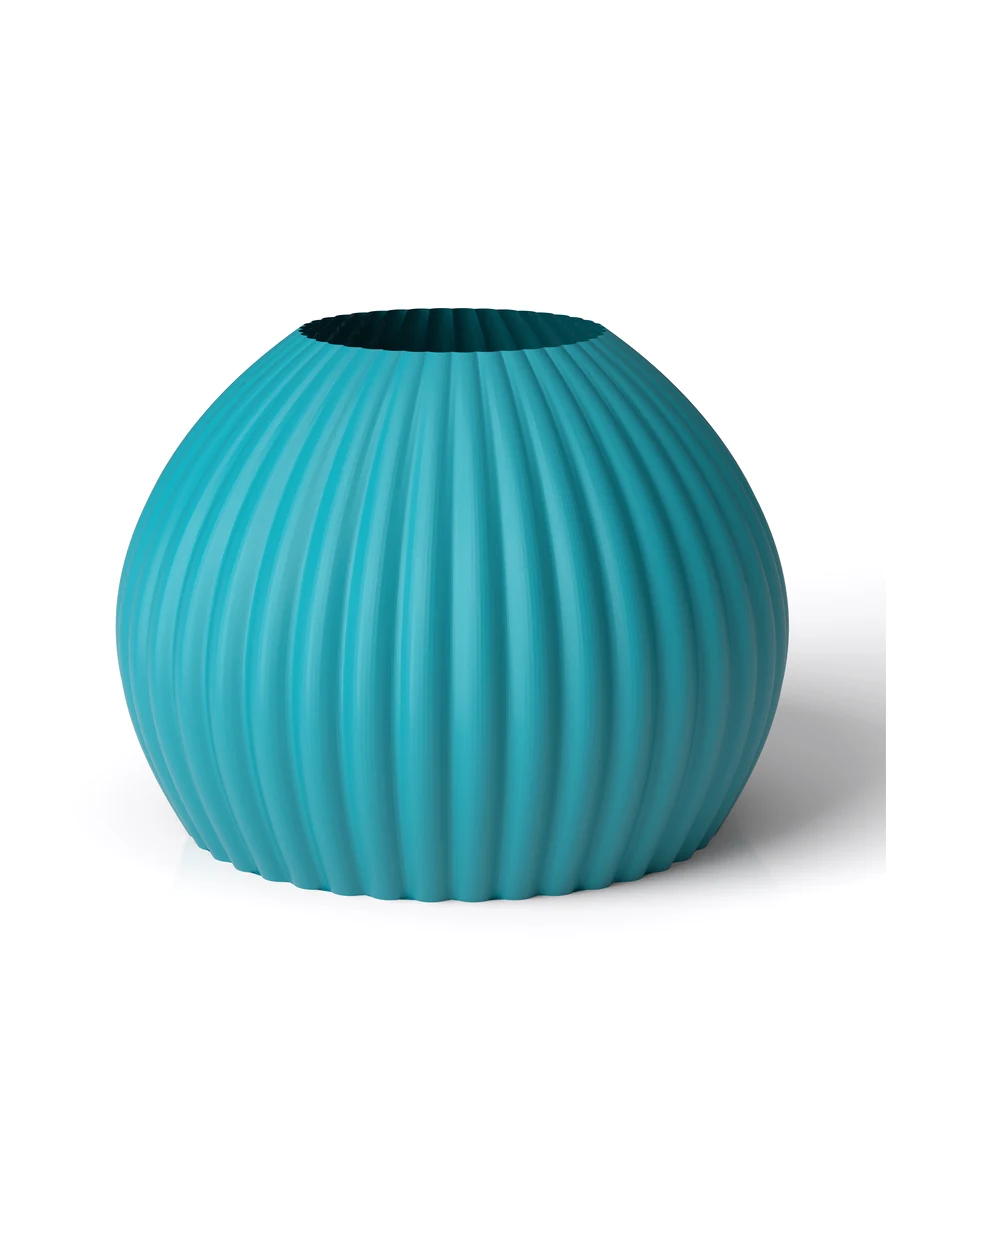
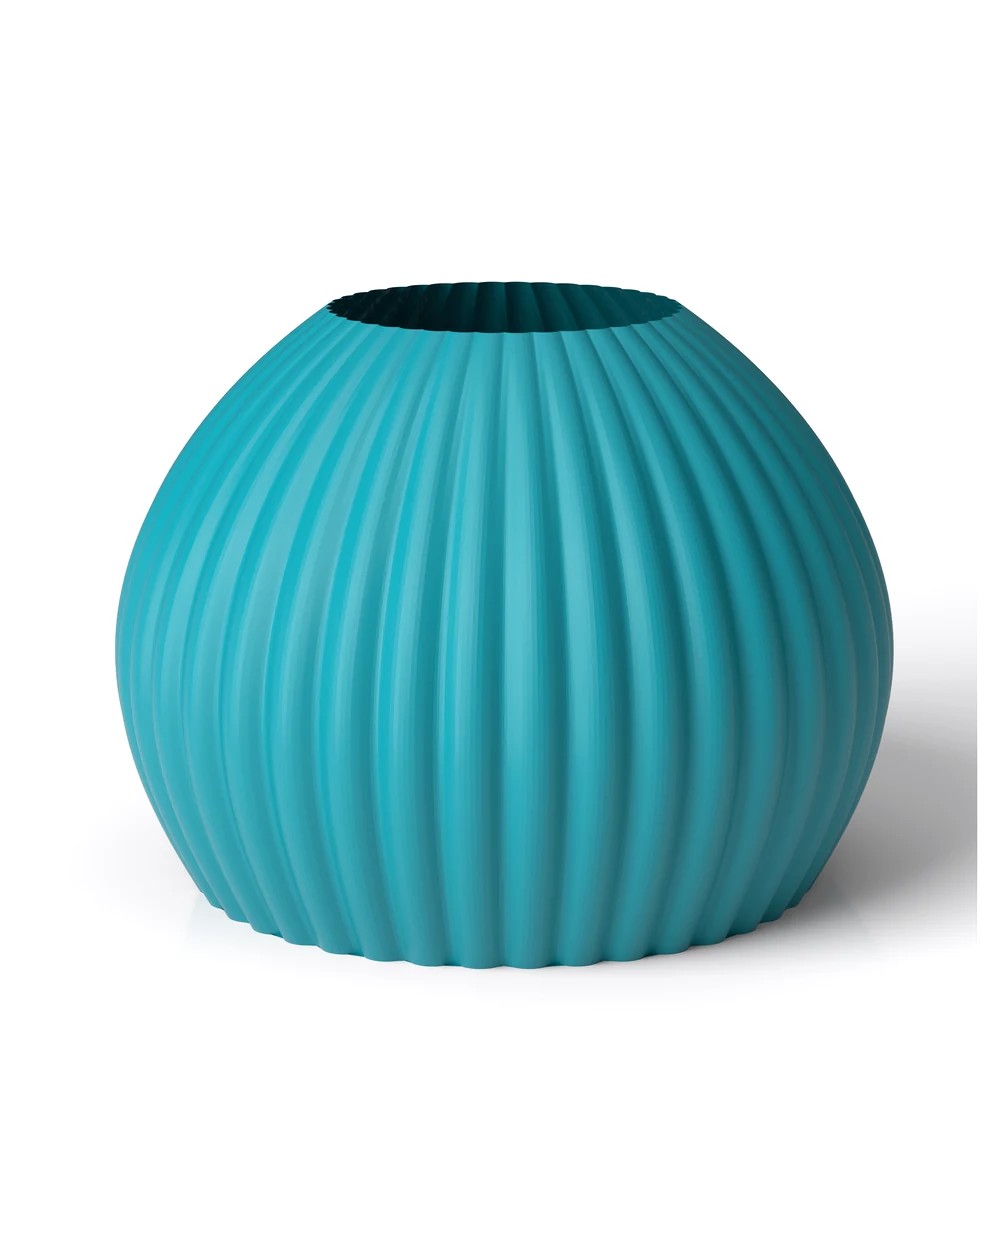
Torsione e Bombato: vaso centrato nel riquadro in tutti i render colore, ombra sfumata a destra
Claude-Session: https://claude.ai/code/session_01MGUzPwwzTWodVZRn9utq3A

Changed region(s): [[0.093, 0.2184, 0.992, 0.78], [0.186, 0.312, 0.217, 0.3432], [0.093, 0.5304, 0.124, 0.5616]]

diff --git a/prodotto-bombato.html b/prodotto-bombato.html
@@ -704,19 +704,19 @@
     /* Il render del vaso in ogni colore (sito, luce uguale per tutti). Compare nel
        riquadro solo quando si tocca il pallino: NON e' fra le miniature. */
     var COLORI = {
-      "#a3444d":"images/Bombato/colori/bombato-red-wine.webp",
-      "#91535d":"images/Bombato/colori/bombato-bordeaux.webp",
-      "#bcbfb0":"images/Bombato/colori/bombato-sage.webp",
-      "#646666":"images/Bombato/colori/bombato-antracite.webp",
-      "#d8d0cd":"images/Bombato/colori/bombato-off-white.webp",
-      "#e7cac0":"images/Bombato/colori/bombato-rose.webp",
-      "#346371":"images/Bombato/colori/bombato-emerald-green.webp",
-      "#0095a1":"images/Bombato/colori/bombato-blu-lagoon.webp",
-      "#6b1492":"images/Bombato/colori/bombato-viola.webp",
-      "#dd1d76":"images/Bombato/colori/bombato-magenta.webp",
-      "#fed003":"images/Bombato/colori/bombato-giallo.webp",
-      "#00924f":"images/Bombato/colori/bombato-verde.webp",
-      "#e0bf42":"images/Bombato/colori/bombato-golden.webp"
+      "#a3444d":"images/Bombato/colori/bombato-red-wine.webp?v=c1",
+      "#91535d":"images/Bombato/colori/bombato-bordeaux.webp?v=c1",
+      "#bcbfb0":"images/Bombato/colori/bombato-sage.webp?v=c1",
+      "#646666":"images/Bombato/colori/bombato-antracite.webp?v=c1",
+      "#d8d0cd":"images/Bombato/colori/bombato-off-white.webp?v=c1",
+      "#e7cac0":"images/Bombato/colori/bombato-rose.webp?v=c1",
+      "#346371":"images/Bombato/colori/bombato-emerald-green.webp?v=c1",
+      "#0095a1":"images/Bombato/colori/bombato-blu-lagoon.webp?v=c1",
+      "#6b1492":"images/Bombato/colori/bombato-viola.webp?v=c1",
+      "#dd1d76":"images/Bombato/colori/bombato-magenta.webp?v=c1",
+      "#fed003":"images/Bombato/colori/bombato-giallo.webp?v=c1",
+      "#00924f":"images/Bombato/colori/bombato-verde.webp?v=c1",
+      "#e0bf42":"images/Bombato/colori/bombato-golden.webp?v=c1"
     };
 
     var stato = { vista:'foto', da:'foto', foto:0, color:'#a3444d', nomeColore:'Red Wine', modelloAvviato:false };

diff --git a/prodotto-torsione.html b/prodotto-torsione.html
@@ -665,17 +665,17 @@
     /* Il render del vaso in ogni colore (sito, luce uguale per tutti). Compare nel
        riquadro solo quando si tocca il pallino: NON e' fra le miniature. */
     var COLORI = {
-      "#a3444d":"images/Torsione/colori/torsione-red-wine.webp",
-      "#91535d":"images/Torsione/colori/torsione-bordeaux.webp",
-      "#bcbfb0":"images/Torsione/colori/torsione-sage.webp",
-      "#646666":"images/Torsione/colori/torsione-antracite.webp",
-      "#d8d0cd":"images/Torsione/colori/torsione-off-white.webp",
-      "#e7cac0":"images/Torsione/colori/torsione-rose.webp",
-      "#0095a1":"images/Torsione/colori/torsione-blu-lagoon.webp",
-      "#6b1492":"images/Torsione/colori/torsione-viola.webp",
-      "#dd1d76":"images/Torsione/colori/torsione-magenta.webp",
-      "#346371":"images/Torsione/colori/torsione-emerald-green.webp",
-      "#e0bf42":"images/Torsione/colori/torsione-golden.webp"
+      "#a3444d":"images/Torsione/colori/torsione-red-wine.webp?v=c1",
+      "#91535d":"images/Torsione/colori/torsione-bordeaux.webp?v=c1",
+      "#bcbfb0":"images/Torsione/colori/torsione-sage.webp?v=c1",
+      "#646666":"images/Torsione/colori/torsione-antracite.webp?v=c1",
+      "#d8d0cd":"images/Torsione/colori/torsione-off-white.webp?v=c1",
+      "#e7cac0":"images/Torsione/colori/torsione-rose.webp?v=c1",
+      "#0095a1":"images/Torsione/colori/torsione-blu-lagoon.webp?v=c1",
+      "#6b1492":"images/Torsione/colori/torsione-viola.webp?v=c1",
+      "#dd1d76":"images/Torsione/colori/torsione-magenta.webp?v=c1",
+      "#346371":"images/Torsione/colori/torsione-emerald-green.webp?v=c1",
+      "#e0bf42":"images/Torsione/colori/torsione-golden.webp?v=c1"
     };
 
     var stato = { vista:'foto', da:'foto', foto:0, color:'#a3444d', nomeColore:'Red Wine', modelloAvviato:false };
